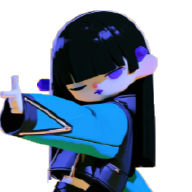
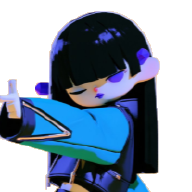
Put the two side-view characters in the roster
They are selectable now, from the same grid, and every check sees them.
Measured against the field with the same AI on both sides they sit inside
the spread: KIN 06-S wins 56% of 66 rounds and KIN 09-S 48%, against 42%
to 56% across the twelve. They did not need balancing.

Five things had to be fixed, four of them found by adding them:

Their ranges had never been measured. tools/ranges.mjs kept its own copy
of the roster and so only ever saw ten, which left both characters with
the distances guessed when their moves were written -- KIN 09-S's light
was declared at 170 and actually reaches 149, so the AI stood 21 units
too far away and the light-is-blocked check failed on her. It reads IDS
now. Re-running it also rewrote the ten, which were stale for a different
reason: last commit changed how far the arms travel and I did not
re-measure, so KIN 01's heavy was carrying 100 where it reaches 129.

Their crouches dropped the hips rather than the root, which does not
lower a fighter, it slides the pelvis out from under the ribcage -- 10px
and 9px, against the check's 6px budget. Same bug the ten had a while
back, copied in when the stance was written.

`armSweep: 'past'` had been inserted between `strikePart` and `reach` on
KIN 02 and KIN 09, which is the pair tools/ranges.mjs anchors on to write
a measured range back, so it had been silently skipping those two moves.
The flag moved ahead of strikePart. The values happened to be right, so
[…]

Changed region(s): [[0.0, 0.0312, 0.8438, 1.0], [0.4688, 0.125, 0.6562, 0.25], [0.4375, 0.125, 0.4688, 0.1875]]

diff --git a/src/data/kin06s.js b/src/data/kin06s.js
@@ -102,7 +102,10 @@ export const KIN06S = {
       };
     },
     crouch() {
-      return { torso: { rot: 0.12, y: 86 }, hips: { rot: -0.07, y: 10 }, head: { rot: 0.13 },
+      // The drop belongs on the torso, which is the root and takes the whole
+      // body down with it. On the hips, which hang off the torso, it does not
+      // lower the fighter -- it slides the pelvis out from under the ribcage.
+      return { torso: { rot: 0.12, y: 96 }, hips: { rot: -0.07 }, head: { rot: 0.13 },
         legL: { rot: 0.32 }, legR: { rot: -0.36 }, shinL: { rot: 0.54 }, shinR: { rot: 0.5 } };
     },
     air(vy) {
@@ -171,7 +174,7 @@ export const KIN06S = {
       name: 'jab', label: 'Jab',
       startup: 4, active: 3, recovery: 10,
       damage: 44, knockback: 210, lift: 0, drive: 140,
-      strikePart: 'foreL', reach: 112, range: 160,
+      strikePart: 'foreL', reach: 112, range: 158,
       pose: anim({}, [
         // Barely any wind-up -- a jab that telegraphs is not a jab.
         { at: 2, ease: 'out',
@@ -214,7 +217,7 @@ export const KIN06S = {
       name: 'cross', label: 'Cross',
       startup: 11, active: 4, recovery: 19,
       damage: 102, knockback: 470, lift: -90, drive: 200,
-      strikePart: 'foreR', reach: 168, range: 130,
+      strikePart: 'foreR', reach: 168, range: 132,
       pose: anim({}, [
         // Coil. He sits back onto the rear foot and turns away from the shot.
         { at: 5, ease: 'out',
@@ -271,7 +274,7 @@ export const KIN06S = {
       name: 'stomp', label: 'Stomp',
       startup: 10, active: 6, recovery: 22,
       damage: 96, knockback: 540, lift: -70, drive: 380,
-      strikePart: 'shinR', reach: 156, range: 190,
+      strikePart: 'shinR', reach: 156, range: 196,
       pose: anim({}, [
         // Sit down into the back leg. He is heavy, so he loads visibly.
         { at: 5, ease: 'out',

diff --git a/src/data/kin09s.js b/src/data/kin09s.js
@@ -93,7 +93,9 @@ export const KIN09S = {
       };
     },
     crouch() {
-      return { torso: { rot: 0.1, y: 80 }, hips: { rot: -0.06, y: 9 }, head: { rot: 0.12 },
+      // See the note on KIN 06's crouch: a drop written on the hips pulls the
+      // pelvis off the torso instead of lowering the fighter.
+      return { torso: { rot: 0.1, y: 89 }, hips: { rot: -0.06 }, head: { rot: 0.12 },
         legL: { rot: 0.3 }, legR: { rot: -0.34 }, shinL: { rot: 0.5 }, shinR: { rot: 0.46 } };
     },
     air(vy) {
@@ -160,7 +162,7 @@ export const KIN09S = {
       name: 'point', label: 'Point',
       startup: 4, active: 3, recovery: 9,
       damage: 40, knockback: 200, lift: 0, drive: 150,
-      strikePart: 'foreL', reach: 105, range: 170,
+      strikePart: 'foreL', reach: 105, range: 149,
       pose: anim({}, [
         { at: 2, ease: 'out',
           torso: { rot: 0.02, x: -8 }, hips: { rot: 0.03 },
@@ -218,7 +220,7 @@ export const KIN09S = {
       name: 'lash', label: 'Lash',
       startup: 10, active: 4, recovery: 18,
       damage: 94, knockback: 450, lift: -110, drive: 230,
-      strikePart: 'foreR', reach: 160, range: 120,
+      strikePart: 'foreR', reach: 160, range: 106,
       pose: anim({}, [
         // Cock it further back and sit onto the rear foot.
         { at: 5, ease: 'out',
@@ -269,7 +271,7 @@ export const KIN09S = {
       name: 'lunge', label: 'Lunge',
       startup: 9, active: 6, recovery: 20,
       damage: 88, knockback: 500, lift: -80, drive: 420,
-      strikePart: 'shinR', reach: 148, range: 180,
+      strikePart: 'shinR', reach: 148, range: 204,
       pose: anim({}, [
         // Load onto the back foot and gather the knee.
         { at: 4, ease: 'out',

diff --git a/src/main.js b/src/main.js
@@ -27,10 +27,26 @@ import { KIN07 } from './data/kin07.js';
 import { KIN08 } from './data/kin08.js';
 import { KIN09 } from './data/kin09.js';
 import { KIN10 } from './data/kin10.js';
+import { KIN06S } from './data/kin06s.js';
+import { KIN09S } from './data/kin09s.js';
 import { Sfx } from './audio/sfx.js';
 
 /** Roster order is the order they were drawn in, not a power ranking. */
-const ROSTER = [KIN01, KIN02, KIN03, KIN04, KIN05, KIN06, KIN07, KIN08, KIN09, KIN10];
+/**
+ * The ten front-facing originals, then the side-view pair.
+ *
+ * The side two are drawn for a camera the other ten are not: the whole point
+ * of the redraw is that a limb pointing at the opponent is a limb seen from
+ * the side, so their kicks read where the others' cannot. They stand at the
+ * same 304 world units and are picked the same way; what differs is that
+ * their moves are written out frame by frame rather than generated, because
+ * the generator builds motion out of a figure standing to attention and both
+ * of them are already drawn in a guard.
+ *
+ * They are at the end rather than beside their front-facing namesakes so the
+ * first two rows of the select grid stay the set people already know.
+ */
+const ROSTER = [KIN01, KIN02, KIN03, KIN04, KIN05, KIN06, KIN07, KIN08, KIN09, KIN10, KIN06S, KIN09S];
 const DEFS = Object.fromEntries(ROSTER.map((d) => [d.id, d]));
 const cv = document.getElementById('stage');
 const ctx = cv.getContext('2d');

diff --git a/src/data/kin09.js b/src/data/kin09.js
@@ -52,23 +52,23 @@ export const KIN09 = {
       name: 'point', label: 'Point',
       startup: 4, active: 3, recovery: 8,
       damage: 40, knockback: 190, lift: 0, drive: 160,
-      strikePart: 'foreL', reach: 30, range: 163,
+      strikePart: 'foreL', reach: 30, range: 180,
     }),
     heavy: move(RIG, {
       name: 'lash', label: 'Lash',
       startup: 10, active: 4, recovery: 17,
       damage: 94, knockback: 450, lift: -110, drive: 230,
-      strikePart: 'foreR',
       // Stopping the shoulder where swingOf says the opponent is leaves this
       // character's forearm lying across their own face; the old additive
       // sweep is what carries it past the head. See punchPose in kit.js.
-      armSweep: 'past', reach: 44, range: 120,
+      armSweep: 'past',
+      strikePart: 'foreR', reach: 44, range: 120,
     }),
     special: move(RIG, {
       name: 'lunge', label: 'Lunge',
       startup: 9, active: 7, recovery: 22,
       damage: 88, knockback: 500, lift: -50, drive: 560,
-      strikePart: 'foreR', reach: 45, range: 121,
+      strikePart: 'foreR', reach: 45, range: 140,
     }),
   },
 };

diff --git a/src/data/kin02.js b/src/data/kin02.js
@@ -52,17 +52,17 @@ export const KIN02 = {
       name: 'jab', label: 'Jab',
       startup: 4, active: 3, recovery: 8,
       damage: 44, knockback: 210, lift: 0, drive: 160,
-      strikePart: 'foreL', reach: 34, range: 175,
+      strikePart: 'foreL', reach: 34, range: 201,
     }),
     heavy: move(RIG, {
       name: 'overhand', label: 'Overhand',
       startup: 10, active: 5, recovery: 18,
       damage: 100, knockback: 470, lift: -120, drive: 230,
-      strikePart: 'foreR',
       // Stopping the shoulder where swingOf says the opponent is leaves this
       // character's forearm lying across their own face; the old additive
       // sweep is what carries it past the head. See punchPose in kit.js.
-      armSweep: 'past', reach: 44, range: 107,
+      armSweep: 'past',
+      strikePart: 'foreR', reach: 44, range: 107,
     }),
     special: move(RIG, {
       name: 'shoulder', label: 'Shoulder',

diff --git a/src/data/kin03.js b/src/data/kin03.js
@@ -45,19 +45,19 @@ export const KIN03 = {
       name: 'sleeve', label: 'Sleeve',
       startup: 5, active: 4, recovery: 9,
       damage: 40, knockback: 200, lift: 0, drive: 150,
-      strikePart: 'foreL', reach: 30, range: 184,
+      strikePart: 'foreL', reach: 30, range: 190,
     }),
     heavy: move(RIG, {
       name: 'crescent', label: 'Crescent',
       startup: 11, active: 4, recovery: 18,
       damage: 96, knockback: 460, lift: -120, drive: 230,
-      strikePart: 'foreR', reach: 54, range: 108,
+      strikePart: 'foreR', reach: 54, range: 132,
     }),
     special: move(RIG, {
       name: 'whirl', label: 'Whirl',
       startup: 10, active: 8, recovery: 24,
       damage: 90, knockback: 500, lift: -60, drive: 480,
-      strikePart: 'foreL', reach: 34, range: 189,
+      strikePart: 'foreL', reach: 34, range: 196,
     }),
   },
 };

diff --git a/src/data/kin06.js b/src/data/kin06.js
@@ -109,14 +109,14 @@ export const KIN06 = {
       startup: 5, active: 3, recovery: 10,
       damage: 50, hitstun: 15, blockstun: 9,
       knockback: 250, lift: 0, drive: 130,
-      strikePart: 'foreL', reach: 33, range: 168,
+      strikePart: 'foreL', reach: 33, range: 197,
     }),
     heavy: move(RIG, {
       name: 'haymaker', label: 'Haymaker',
       startup: 12, active: 4, recovery: 20,
       damage: 115, hitstun: 24, blockstun: 14,
       knockback: 480, lift: -130, drive: 230,
-      strikePart: 'foreR', reach: 52, range: 108,
+      strikePart: 'foreR', reach: 52, range: 132,
     }),
     // The one move in the cast that still carried its own hand-written pose,
     // and it had both of the faults the generated ones have just lost: it

diff --git a/src/data/kin04.js b/src/data/kin04.js
@@ -45,13 +45,13 @@ export const KIN04 = {
       name: 'jab', label: 'Jab',
       startup: 5, active: 3, recovery: 9,
       damage: 48, knockback: 215, lift: 0, drive: 150,
-      strikePart: 'foreL', reach: 33, range: 193,
+      strikePart: 'foreL', reach: 33, range: 201,
     }),
     heavy: move(RIG, {
       name: 'hook', label: 'Hook',
       startup: 12, active: 4, recovery: 20,
       damage: 110, knockback: 500, lift: -140, drive: 230,
-      strikePart: 'foreR', reach: 52, range: 105,
+      strikePart: 'foreR', reach: 52, range: 130,
     }),
     special: move(RIG, {
       name: 'blackout', label: 'Blackout',

diff --git a/src/data/kin07.js b/src/data/kin07.js
@@ -45,13 +45,13 @@ export const KIN07 = {
       name: 'jab', label: 'Jab',
       startup: 4, active: 3, recovery: 8,
       damage: 44, knockback: 200, lift: 0, drive: 170,
-      strikePart: 'foreL', reach: 34, range: 161,
+      strikePart: 'foreL', reach: 34, range: 178,
     }),
     heavy: move(RIG, {
       name: 'hammer', label: 'Hammer',
       startup: 11, active: 4, recovery: 18,
       damage: 100, knockback: 470, lift: -120, drive: 230,
-      strikePart: 'foreR', reach: 52, range: 122,
+      strikePart: 'foreR', reach: 52, range: 144,
     }),
     special: move(RIG, {
       name: 'dash', label: 'Dash',

diff --git a/src/data/kin01.js b/src/data/kin01.js
@@ -144,13 +144,13 @@ export const KIN01 = {
       name: 'slam', label: 'Slam',
       startup: 11, active: 4, recovery: 19,
       damage: 104, knockback: 480, lift: -130, drive: 230,
-      strikePart: 'foreR', reach: 70, range: 100,
+      strikePart: 'foreR', reach: 70, range: 129,
     }),
     special: move(RIG, {
       name: 'pounce', label: 'Pounce',
       startup: 10, active: 7, recovery: 23,
       damage: 92, knockback: 540, lift: -90, drive: 520,
-      strikePart: 'foreL', reach: 34, range: 190,
+      strikePart: 'foreL', reach: 34, range: 192,
     }),
   },
 };

diff --git a/src/data/kin05.js b/src/data/kin05.js
@@ -45,7 +45,7 @@ export const KIN05 = {
       name: 'jab', label: 'Jab',
       startup: 4, active: 3, recovery: 9,
       damage: 44, knockback: 210, lift: 0, drive: 150,
-      strikePart: 'foreL', reach: 34, range: 172,
+      strikePart: 'foreL', reach: 34, range: 180,
     }),
     heavy: move(RIG, {
       name: 'roundhouse', label: 'Roundhouse',

diff --git a/src/data/kin10.js b/src/data/kin10.js
@@ -45,7 +45,7 @@ export const KIN10 = {
       name: 'jab', label: 'Jab',
       startup: 5, active: 3, recovery: 10,
       damage: 50, knockback: 225, lift: 0, drive: 145,
-      strikePart: 'foreL', reach: 34, range: 192,
+      strikePart: 'foreL', reach: 34, range: 201,
     }),
     heavy: move(RIG, {
       name: 'flare', label: 'Flare',
